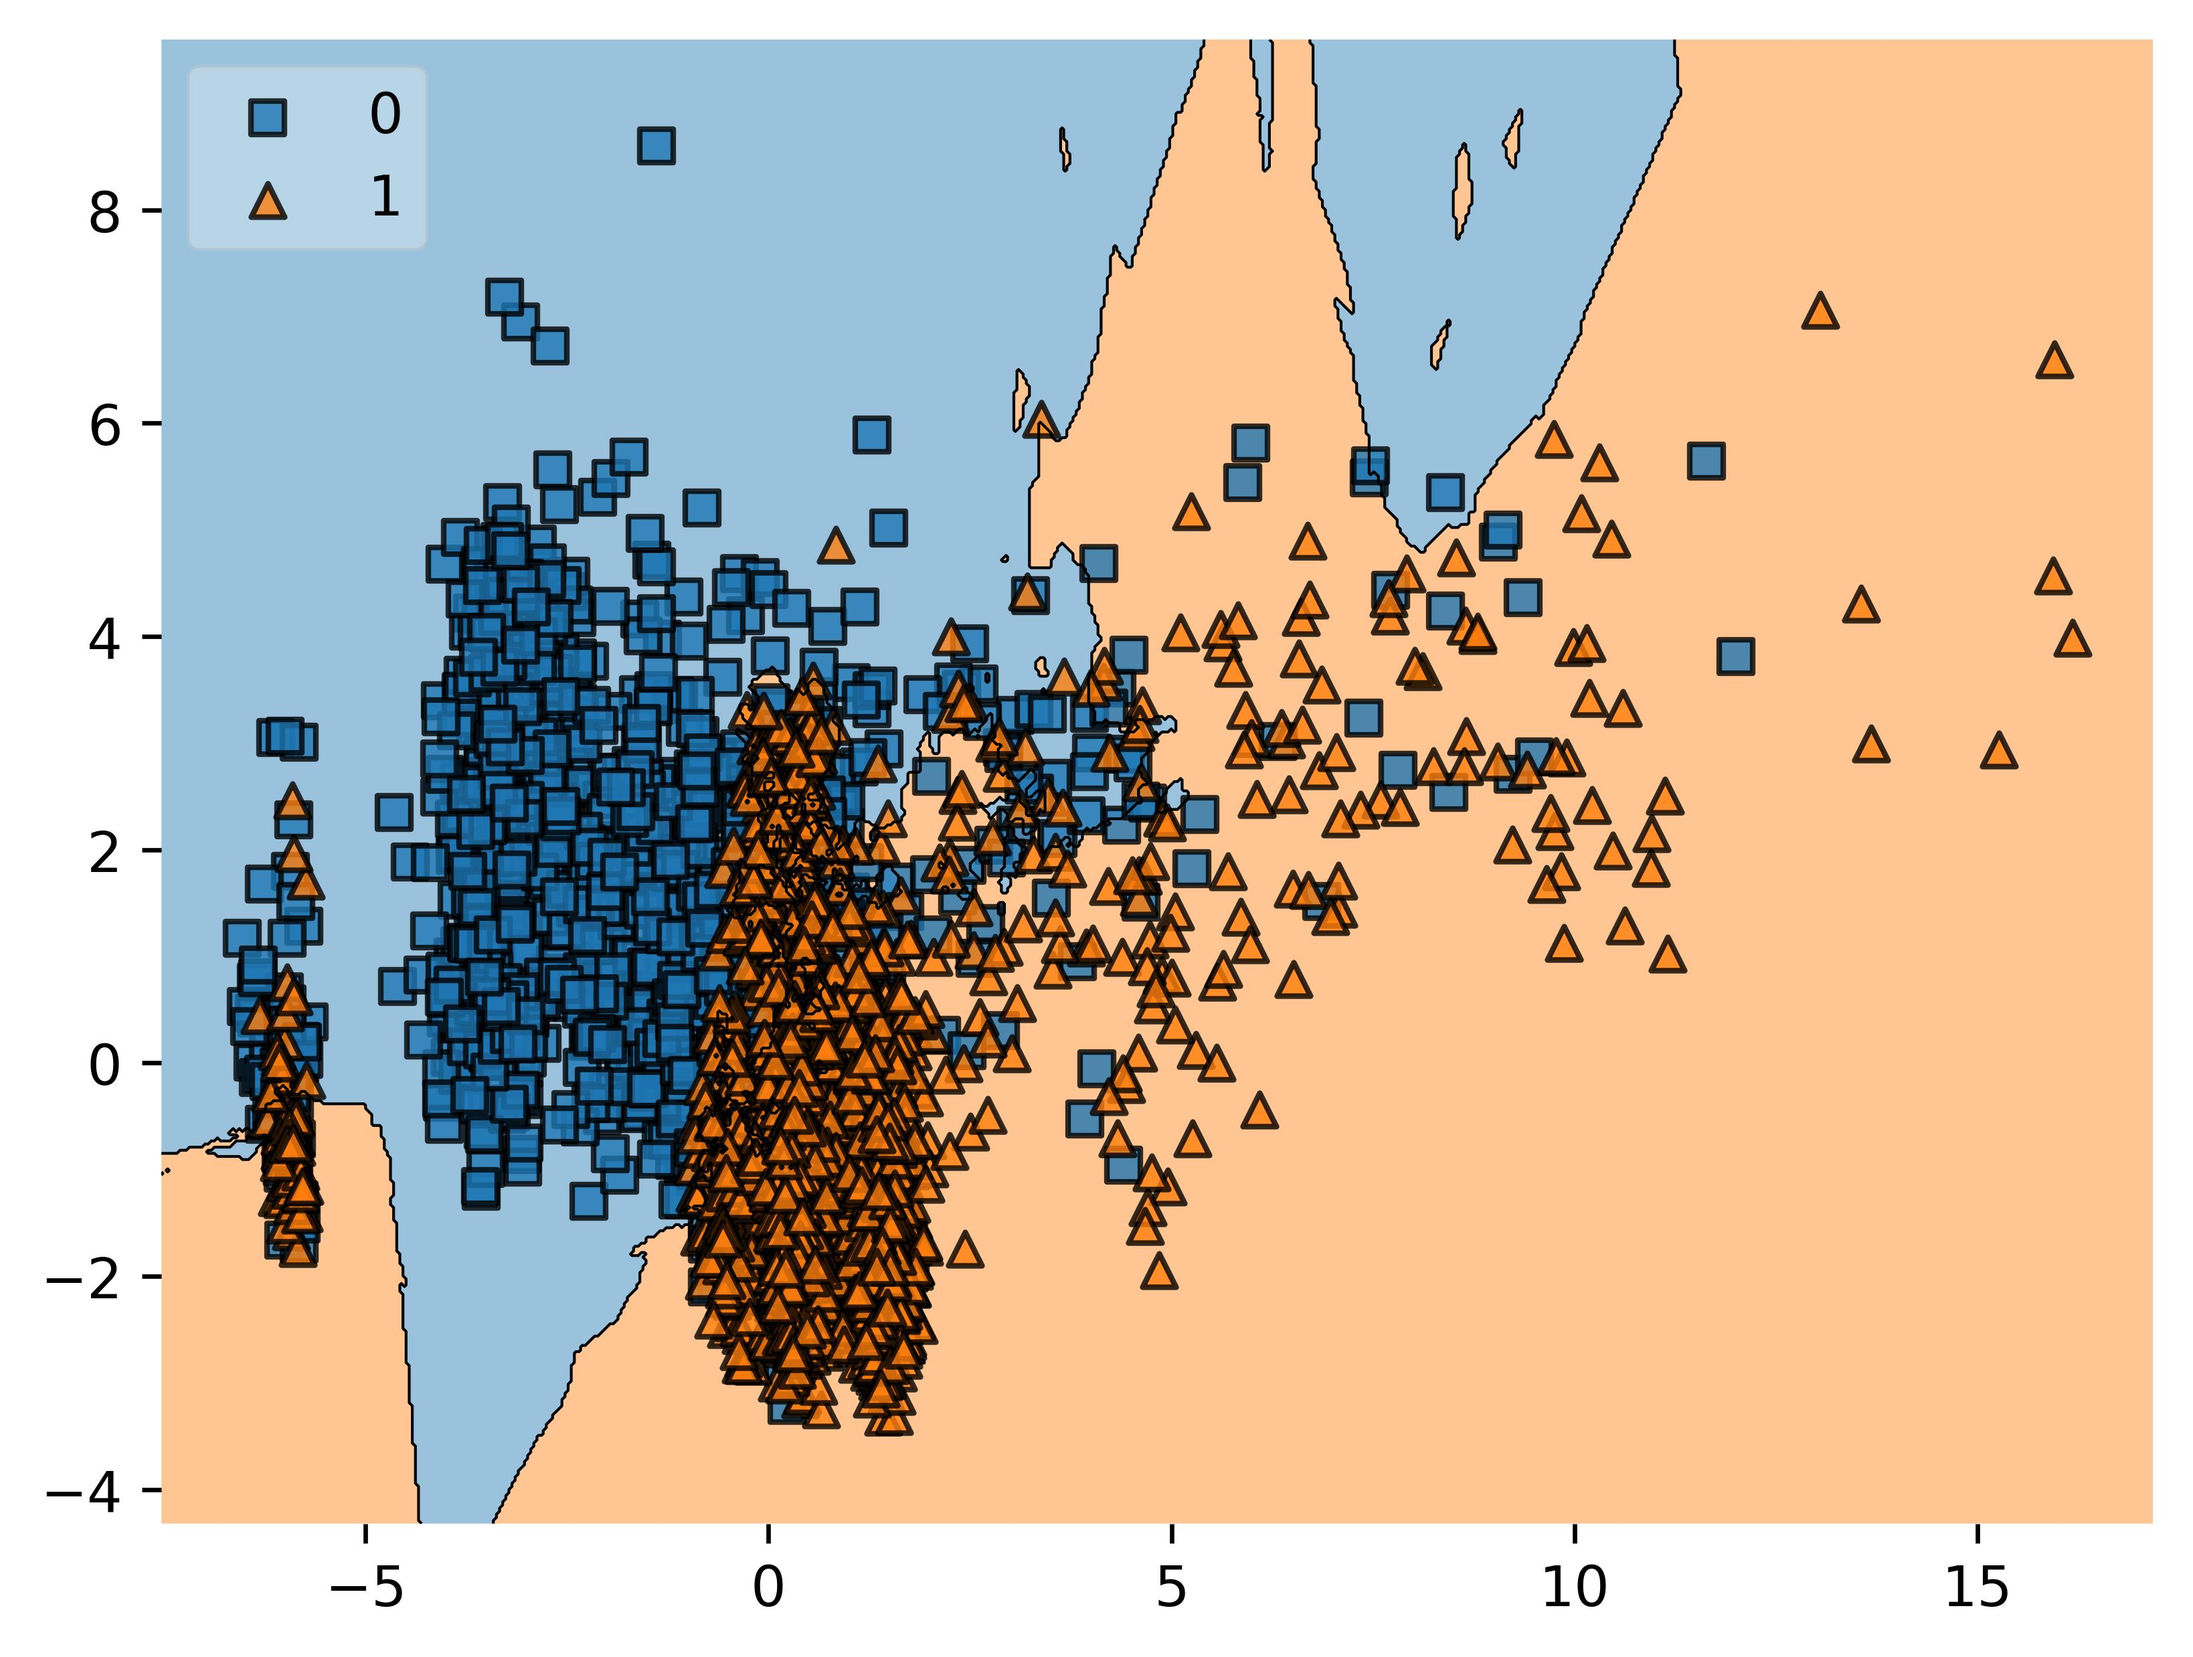
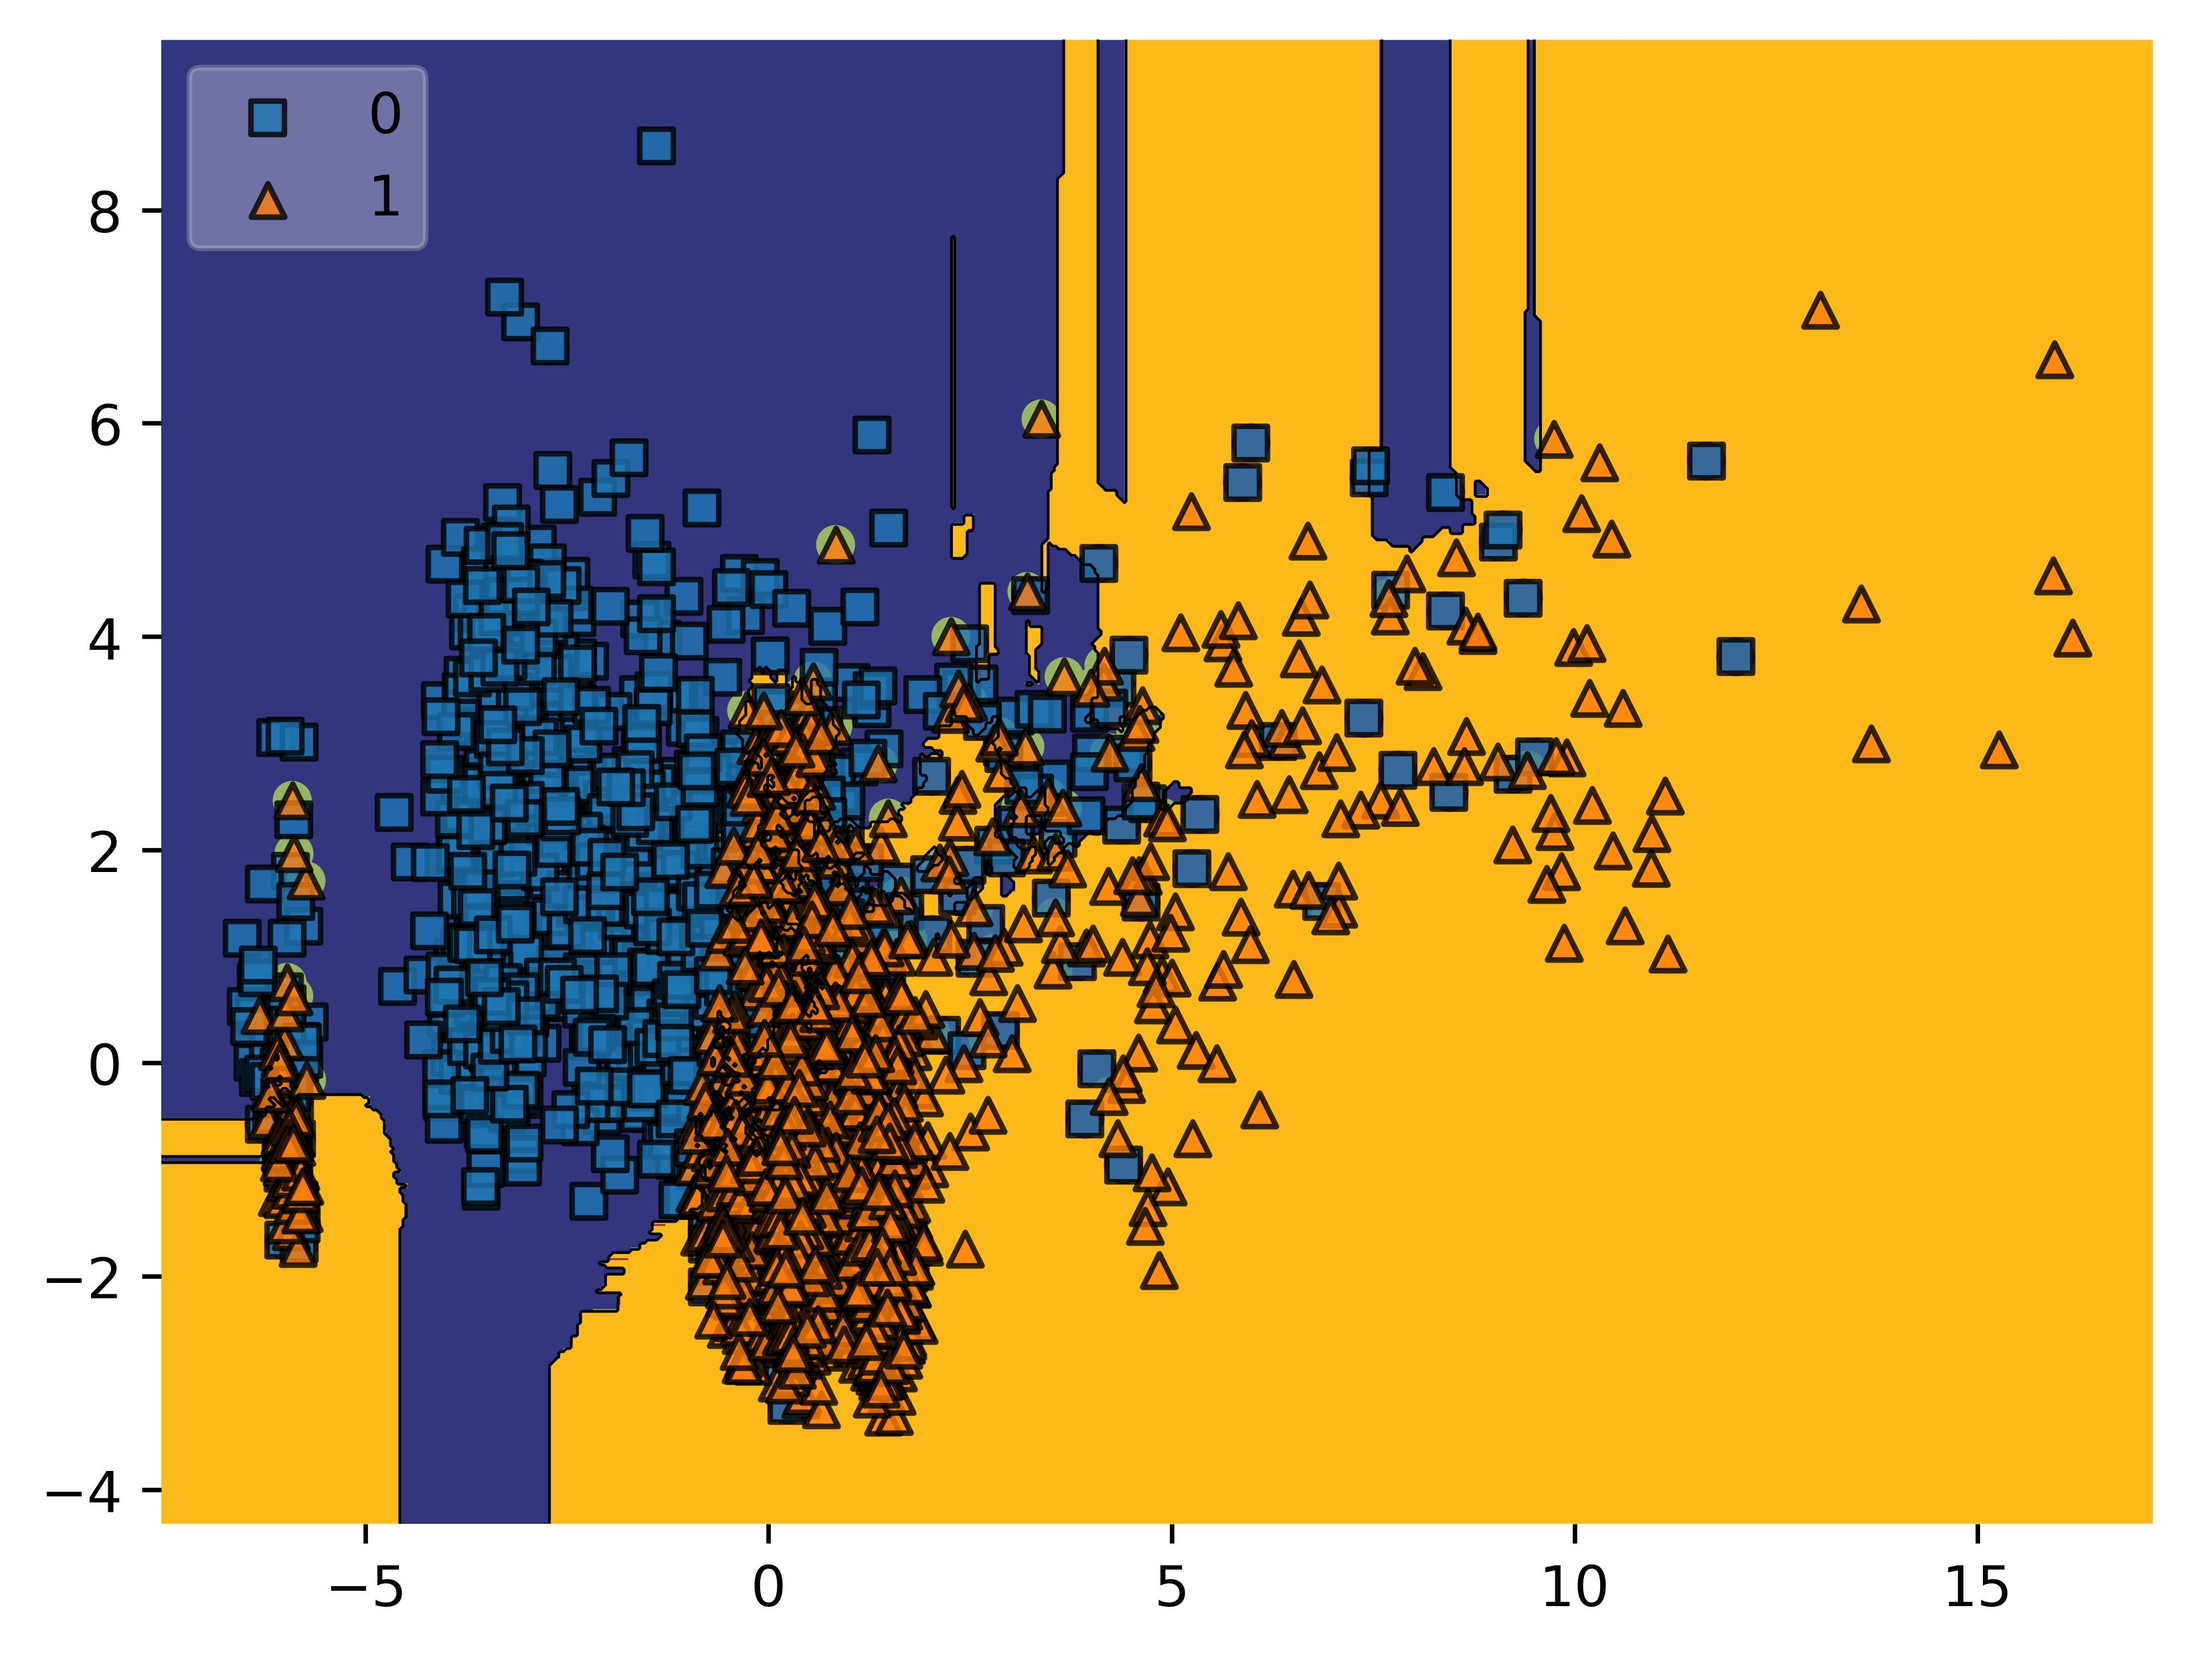
confusion matrix and fixed pca

diff --git a/scripts/confusion.py b/scripts/confusion.py
@@ -1,6 +1,7 @@
 from sklearn.neighbors import KNeighborsClassifier
 from sklearn.model_selection import train_test_split
 
+import os
 import numpy as np
 import matplotlib.pyplot as plt
 import pathlib
@@ -11,7 +12,7 @@ from sklearn import metrics
 from sklearn.metrics import precision_score, accuracy_score, confusion_matrix, ConfusionMatrixDisplay
 
 ROOT = pathlib.Path(__file__).parent.parent.resolve().joinpath("data")
-OUTPUT = pathlib.Path(__file__).parent.parent.resolve().joinpath("figs")
+OUTPUT = pathlib.Path(__file__).parent.parent.resolve().joinpath("figs\confusion")
 
 DATA_FILE = ROOT.joinpath("data_normal.csv")
 
@@ -27,21 +28,39 @@ y = data['Target']
 # Split into training and test set
 X_train, X_test, y_train, y_test = train_test_split(X, y, test_size = 0.2, random_state=42)
 
-model = KNeighborsClassifier(n_neighbors=5)
-model.fit(X_train, y_train)
-predictions = model.predict(X_test)
+def test_model(k, cur_metric, X_train, X_test, y_train, y_test):
+    model = KNeighborsClassifier(n_neighbors=k, metric = cur_metric)
+    model.fit(X_train, y_train)
+    predictions = model.predict(X_test)
 
-print('Evaluation Metrics:')
-print('Accuracy: ' + str(metrics.accuracy_score(y_test, predictions)))
-print('Recall: ' + str(metrics.recall_score(y_test, predictions)))
-print('F1 Score: ' + str(metrics.f1_score(y_test, predictions)))
-print('Precision: ' + str(metrics.precision_score(y_test, predictions)))
-    
-# Print Confusion Matrix
-print('Confusion Matrix:')
-sns.set(font_scale = 2)
-cm = confusion_matrix(y_test, predictions, labels = None)
-disp = ConfusionMatrixDisplay(confusion_matrix = cm, display_labels = None)
-disp.plot()
-plt.grid(False)
-plt.savefig(OUTPUT.joinpath("confusion_matrix.jpg"), bbox_inches = "tight", transparent = True, dpi = 600)
+    write_file = OUTPUT.joinpath(cur_metric + "_result.txt")
+    if not write_file.is_file():
+        open(write_file, 'x')
+    with open(write_file, 'w') as f:
+        f.write('Evaluation Metrics for ' + cur_metric + ':\n')
+        f.write('Accuracy: ' + str(metrics.accuracy_score(y_test, predictions)) + '\n')
+        f.write('Recall: ' + str(metrics.recall_score(y_test, predictions)) + '\n')
+        f.write('F1 Score: ' + str(metrics.f1_score(y_test, predictions)) + '\n')
+        f.write('Precision: ' + str(metrics.precision_score(y_test, predictions)) + '\n')
+        
+    # Print Confusion Matrix
+    sns.set(font_scale = 2)
+    cm = confusion_matrix(y_test, predictions, labels = None)
+    disp = ConfusionMatrixDisplay(confusion_matrix = cm, display_labels = None)
+    disp.plot()
+    plt.grid(False)
+    plt.savefig(OUTPUT.joinpath(cur_metric + "_confusion_matrix.jpg"), bbox_inches = "tight", transparent = True, dpi = 600)
+    plt.close()
+    return metrics.accuracy_score(y_test, predictions)
+
+metrics_list = ['cosine', 'l1', 'l2']
+for m in metrics_list:
+    best_acc = 0
+    best_k = 0
+    for k in np.arange(1, 21):
+        cur_acc = test_model(k, m, X_train, X_test, y_train, y_test)
+        if (cur_acc > best_acc):
+            best_acc = cur_acc
+            best_k = k
+    print('Best k for ' + m + ': ' + str(best_k))
+    test_model(best_k, m, X_train, X_test, y_train, y_test)

diff --git a/scripts/knn_pca.py b/scripts/knn_pca.py
@@ -3,6 +3,8 @@ from sklearn.neighbors import KNeighborsClassifier
 from sklearn.model_selection import train_test_split
 from mlxtend.plotting import plot_decision_regions
 from sklearn.decomposition import PCA
+from sklearn import metrics
+from sklearn.metrics import accuracy_score
 
 import numpy as np
 import matplotlib.pyplot as plt
@@ -33,15 +35,31 @@ x = pca.fit_transform(X_train)
 y = y_train.to_numpy()
 x_test = pca.fit_transform(X_test)
 
-
 def train_KNN(k):
-    model = KNeighborsClassifier(n_neighbors=k, p = 2)
+    model = KNeighborsClassifier(n_neighbors=k, p = 2, metric='l1')
     model = model.fit(x, y)
     predictions = model.predict(x_test)
 
+    h = .02
+    x_min, x_max = x[:, 0].min() - 1, x[:, 0].max() + 1
+    y_min, y_max = x[:, 1].min() - 1, x[:, 1].max() + 1
+    xx, yy = np.meshgrid(np.arange(x_min, x_max, h), np.arange(y_min, y_max, h))
+    Z = model.predict(np.c_[xx.ravel(), yy.ravel()])
+
+        # Put the result into a color plot
+    Z = Z.reshape(xx.shape)
+    plt.figure()
+    plt.pcolormesh(xx, yy, Z)
+
+        # Plot also the training points
+    plt.scatter(x[:, 0], x[:, 1], c=y)
+    plt.xlim(xx.min(), xx.max())
+    plt.ylim(yy.min(), yy.max())
+    print(accuracy_score(y_test, predictions))
     plot_decision_regions(x, y.astype(np.int_), clf = model, legend = 2)
     plt.savefig(OUTPUT.joinpath("pca_" + str(k) + ".jpg"), bbox_inches = "tight", transparent = True, dpi = 600)
     plt.clf()
 
-for i in tqdm(range(1, 51)):
+
+for i in tqdm(range(1, 21)):
     train_KNN(i)

diff --git a/scripts/knn_basic.py b/scripts/knn_basic.py
@@ -24,13 +24,13 @@ y = data['Target']
 X_train, X_test, y_train, y_test = train_test_split(
 			X, y, test_size = 0.2, random_state=42)
 
-neighbors = np.arange(1, 11)
+neighbors = np.arange(1, 21)
 train_accuracy = np.empty(len(neighbors))
 test_accuracy = np.empty(len(neighbors))
 
 # Loop over K values
 for i, k in enumerate(neighbors):
-	knn = KNeighborsClassifier(n_neighbors=k)
+	knn = KNeighborsClassifier(n_neighbors=k, metric='l1')
 	knn.fit(X_train, y_train)
 	
 	# Compute training and test data accuracy

diff --git a/scripts/boxplot_raw.py b/scripts/boxplot_raw.py
@@ -11,4 +11,5 @@ data = pd.read_csv(ROOT.joinpath("data_raw.csv"))
 fig = plt.figure()
 ax = fig.add_axes([0, 0, 1, 1])
 bp = ax.boxplot(data.iloc[:, :36])
-plt.savefig(OUTPUT.joinpath("boxplot_raw.jpg"), bbox_inches = "tight", transparent = True, dpi = 600)
+plt.show()
+#plt.savefig(OUTPUT.joinpath("boxplot_raw.jpg"), bbox_inches = "tight", transparent = True, dpi = 600)
